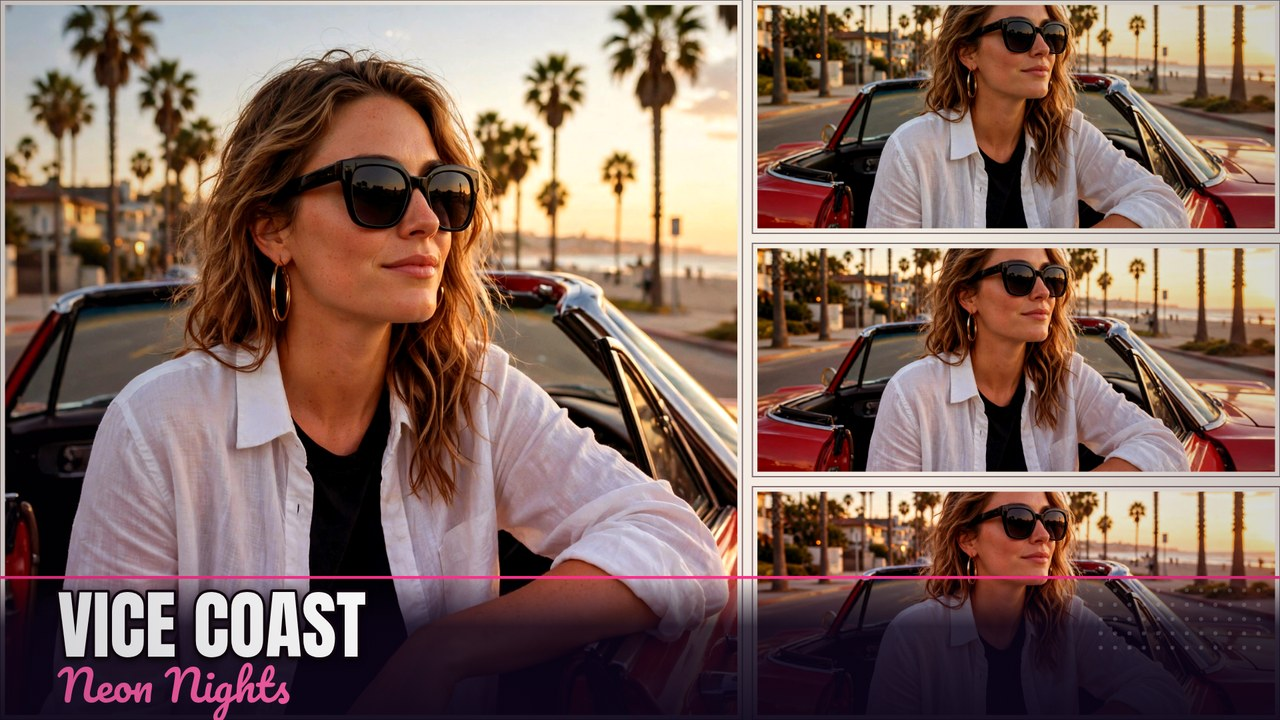
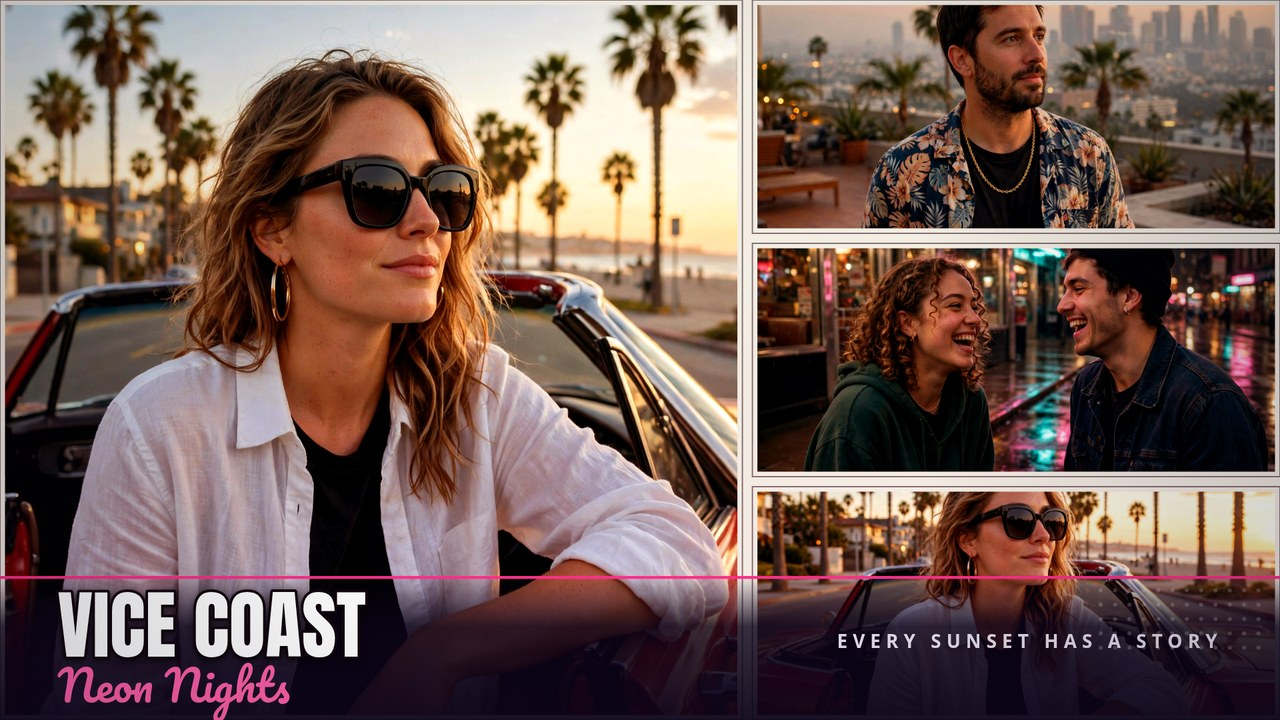
Screenshots (4 real renders/exports), STATUS.md, gitignore build outputs

Changed region(s): [[0.5938, 0.0, 1.0, 0.6722], [0.6562, 0.8861, 0.9375, 0.9167]]

diff --git a/STATUS.md b/STATUS.md
@@ -1,0 +1,79 @@
+# Vice Coast Cover Studio — gta6-cover-art-01 — STATUS
+
+Competition: **gta6-cover-art-01** ("Make GTA 6 Cover Art"), $250, deadline
+Fri 21 Nov 2026 10:30 UTC (17:30 WIB). Strict transcripts — no bundle upload;
+the sealed recording is the transcript.
+
+## What was built
+
+An offline web app that turns photos + a caption into multi-panel GTA-style
+cover art and exports PNGs in 1080×1080, 1080×1350 and 1920×1080.
+
+- **Layouts** (4): Hero + 3, Four panels (2×2), Full bleed, tilted Snapshots.
+- **Grades** (5): Sunset, Neon Nights, Palm Dusk, Teal Heat, Noir — each a
+  photo filter plus a gradient wash, with film grain and vignette.
+- **Photos**: up to 4 slots (file upload or bundled samples), per-panel crop
+  via drag-to-pan and scroll-to-zoom plus a zoom slider; "one photo fills
+  all panels" toggle.
+- **Caption**: Anton title (white / sunset / neon / gold fill, bold outline),
+  Pacifico subtitle, letterspaced tagline. Both fonts vendored under
+  `app/fonts/` under the SIL Open Font License (`OFL.txt` included).
+- **Samples**: three original photos made with an image model for this app
+  (fictional people, no text/logos): boulevard, rooftop, neon.
+- **Originality**: no Rockstar logo, artwork or fonts anywhere. All art,
+  lettering and sample photos are original work made for this entry.
+
+## Verification (19 Nov 2026, ~19:30–20:00 WIB)
+
+- Served from `serve.ts` and exercised in Xvfb-headed Chromium 157 over CDP
+  (note: this VM's Chromium needs `--hatch-webgl-allowed-domains-file` +
+  `--hatch-webgl-allowed-domains-sha256` pointing at the canonical policy
+  file `/var/lib/hatch-browser/rootfs-base/usr/share/hatch/chromium/webgl-allowed-domains.txt`,
+  and `--allow-file-access-from-files` to load the app over `file://`;
+  plain `http://127.0.0.1:8080` is blocked by Local Network Access checks).
+- Editor scene: boots, 3 sample photos loaded, zero console errors, zero
+  failed requests.
+- Real exports via the app's own export path (`__vc.exportPngDataUrl`, same
+  render code as the Export button): valid PNGs — wide 1920×1080
+  (4,240,321 B), square 1080×1080 (2,436,316 B), portrait 1080×1350
+  (3,002,530 B). All three byte-valid, correct dimensions.
+- Screenshots (4, all within gate caps: ≤256 KiB, long side ≤1280, short
+  side ≥480): `1-cover.jpg` 1280×720, `2-editor.jpg` 1280×800,
+  `3-cover-square.jpg` 1080×1080, `4-cover-portrait.jpg` 1024×1280.
+  All are real renders / real exported PNGs scaled down, visually inspected.
+- `main.ts` run twice: outputs byte-identical. `dossier.json` 1,161,820 B
+  (cap 1,500,000).
+- No external references in `app/` (grep for `http://`, `https://` empty).
+- Kit check (`cli/makefun.mjs check --worktree`): **4 passed, 0 failed**,
+  17 skipped (transcript gate checks run server-side on the sealed
+  recording), 5 deferred to submission (repo public / owner / created-after-
+  open / commit-in-repo / duplicate-snapshot — all need the GitHub repo).
+
+## Bundle status
+
+**N/A — no bundle.** This is a strict-transcripts competition
+(`strict_transcripts: true`, `transcripts_required: true`): no transcript
+bundle is uploaded; transcripts come from the sealed recording
+`01a1f3c7-85a3-70ce-93cf-10eed1421f17` (node PID 2143, still running at build
+end — do NOT kill; the parent seals it).
+
+## Commits
+
+- `86dd2a4` Vice Coast Cover Studio: app, fonts, samples, entry program
+- `ee9a9a1` Shot scenes use one photo per panel; tagline fits the strip
+- (final) screenshots + this STATUS.md — see `git log`
+
+## Remaining steps for the parent (NOT done here)
+
+1. Create the public GitHub repo under **bocork0** (after the 10:30 UTC
+   opening — the repo must be created after the opening) and push this
+   commit; add the 3 live badges + About (website make.fun) + topic
+   `makefun` to the README at submit time.
+2. Seal the recording (`kill "$(cat ~/.makefun/record-gta6-cover-art-01.pid)"`
+   and wait for the "sealed" line) and write the Muse usage rows to
+   `~/.makefun/muse-usage-gta6-cover-art-01.jsonl` before sealing (per the
+   record log's note).
+3. Submit via CLI with the recording id, repo URL, commit SHA and the
+   FK49 keypair (payout wallet FK49, as approved for earlier entries).
+   No signature step on Dhoni's phone is needed unless the competition is
+   escrowed and FK49 cannot be used.
